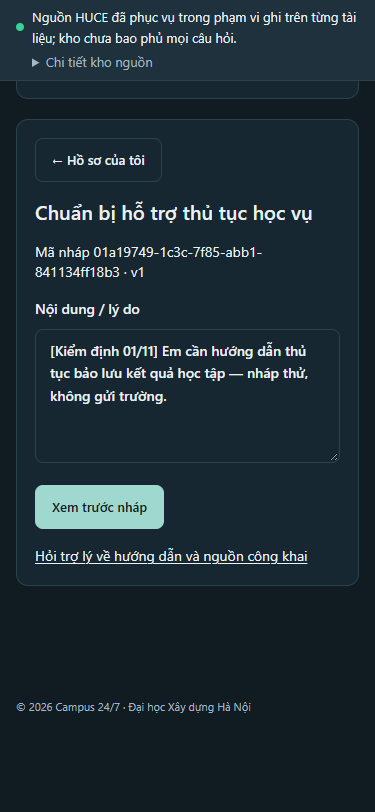
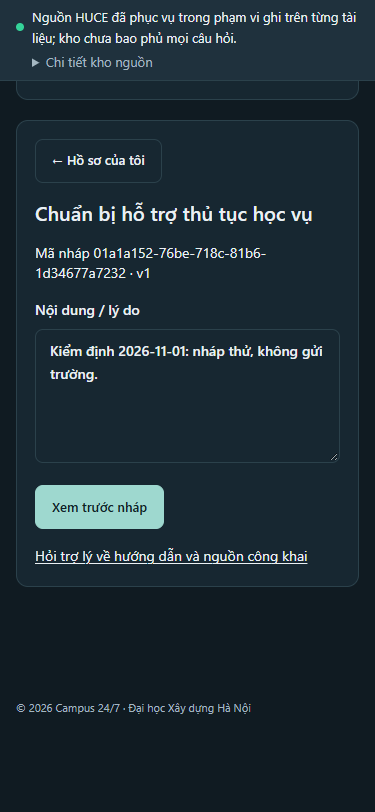
docs(audit): re-run the UI suite on the final runtime and document the AU-A23 retrieval limit

diff --git a/evals/results/audit-opus-20261101/REPORT.md b/evals/results/audit-opus-20261101/REPORT.md
@@ -484,3 +484,8 @@ Bằng chứng: lượt chạy thật trên 8015 sau mọi thay đổi và xoay 
 - **45 ca audit (một người dùng, tuần tự):** 20 đủ ý, 5 thiếu ý theo bộ chấm, 20 từ chối đúng; 0 từ chối nhầm, 0 lỗi, 0 timeout; thời gian tối đa 14,5 giây. AU-A12 ("XDS") và AU-A25 ("Hiệu trưởng ký quyết định") đều đạt, có trích dẫn đúng nguồn. Năm ca "thiếu ý": AU-A02, A08, A10 (đọc tay đúng; bộ chấm chặt), AU-A24 (đáp án "eoffice.huce.edu.vn" đúng ý, gold viết "E-Office"), và AU-A23 (nêu ngành nhưng thiếu khoa quản lý — trả lời một phần thật, dao động giữa các lần chạy).
 - Lời gọi trả phí lượt này: 144 (45 ca) + 10 (injection nhiều lượt); sổ cái hiện 74673.
 - Kết luận: không phát hiện hồi quy so với các lượt trước; các lỗi đã xử lý (L-01…L-29, L-12, L-14, L-27, L-03, AU-A25) vẫn đúng trên trạng thái cuối.
+
+## Cập nhật cuối 18 (03/11) — giao diện kiểm lại; AU-A23 là giới hạn truy hồi đã biết
+- **Giao diện (Playwright, `ui-final/ui-final.pw.ts`, 1 test đạt, 16,8 giây, trên 8015 cuối, đăng nhập bằng mật khẩu mới đọc từ tệp):** đăng nhập chuyển về `/chat`; không còn token trong `localStorage`; lịch sử hội thoại 8 mục, mở lại khôi phục được (không lỗi), mục hiện tại được đánh dấu; mở nguồn không còn cảnh báo, có tên đơn vị phát hành, không tràn ngang; phông Inter tải 3/3 phản hồi 200; mobile không cuộn ngang; chế độ tối: tương phản nút 10,4; danh sách nháp 4 mục, biểu mẫu cuộn vào tầm nhìn; phiên hết hạn hiện đúng thông báo và liên kết đăng nhập. Kết quả trước đó giữ trong `ui-final/prev-before-final/`.
+- **AU-A23 ("Ngành Logistics đô thị do khoa nào quản lý, bằng gì?") — giới hạn truy hồi, chưa sửa:** đơn vị đáp án là bảng danh sách ngành trang 25 của Sổ tay (1173 ký tự, dòng "29 Logistics đô thị Cầu Đường Cử nhân"). Nó nằm ngoài top 80 của cả BM25 lẫn vector vì hàng chục đơn vị chương trình học K71 nhắc "Logistics đô thị" nhiều lần hơn; hướng neo theo mã hiện có (`anchored`) không áp dụng (không có mã). Khắc phục thật là tách bảng thành các dòng ngành riêng khi dựng chỉ mục (đổi cấu trúc đơn vị, dựng lại chỉ mục và đo lại dev136), việc lớn hơn phạm vi sửa lỗi lần này. Ca này dao động giữa các lần chạy vì khi thỉnh thoảng đơn vị đáp án lọt vào ngữ cảnh thì mô hình trả lời đủ.
+- **Việc thuộc quyền bạn, chưa làm:** (1) đẩy 20 commit lên GitHub (repo công khai); (2) xóa `rotation-backup-20261103/` chứa mật khẩu cũ đã vô hiệu.
